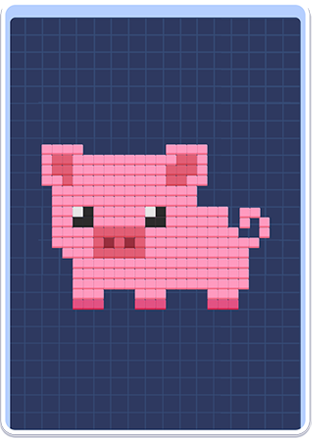
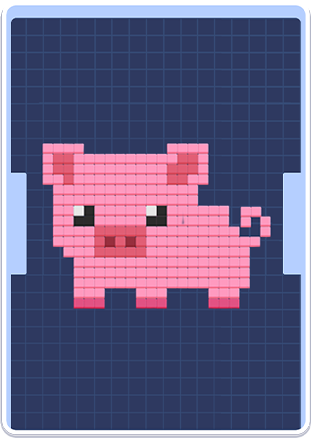
Make level harder and fix spite walls

Changed region(s): [[0.1158, 0.0, 1.0, 1.0], [0.0, 0.0, 0.0868, 1.0]]

diff --git a/assets/Code/Gameplay/Levels.ts b/assets/Code/Gameplay/Levels.ts
@@ -32,6 +32,16 @@ const PIG_LEVEL_ROWS = [
     '#.........................#',
     '#.........................#',
     '#.........................#',
+    '##.......................##',
+    '##.......................##',
+    '##.......................##',
+    '##.......................##',
+    '##.......................##',
+    '##.......................##',
+    '##.......................##',
+    '##.......................##',
+    '##.......................##',
+    '##.......................##',
     '#.........................#',
     '#.........................#',
     '#.........................#',
@@ -43,21 +53,41 @@ const PIG_LEVEL_ROWS = [
     '#.........................#',
     '#.........................#',
     '#.........................#',
-    '#.........................#',
-    '#.........................#',
-    '#.........................#',
-    '#.........................#',
-    '#.........................#',
-    '#.........................#',
-    '#.........................#',
-    '#.........................#',
-    '#.........................#',
-    '#.....#.............#.....#',
-    '#######......p......#######',
+    '#............p............#',
     '###########################',
 ];
 
-const NARROW_LEVEL_ROWS = [
+const BANANA_LEVEL_ROWS = [
+    '###################',
+    '#.##...........##.#',
+    '#.###.........###.#',
+    '#.................#',
+    '#.................#',
+    '#.................#',
+    '#.................#',
+    '#.................#',
+    '#.................#',
+    '#.................#',
+    '#.................#',
+    '#.................#',
+    '#.................#',
+    '#.................#',
+    '#.................#',
+    '#.................#',
+    '#.................#',
+    '#.................#',
+    '#.................#',
+    '#.................#',
+    '#.................#',
+    '##...............##',
+    '##...............##',
+    '##...............##',
+    '#........p........#',
+    '###################',
+];
+
+
+const SMILE_LEVEL_ROWS = [
     '###################',
     '#.................#',
     '#.................#',
@@ -87,35 +117,38 @@ const NARROW_LEVEL_ROWS = [
 ];
 
 const PARROT_LEVEL_ROWS = [
-    '#####################',
-    '#...................#',
-    '#...................#',
-    '#...................#',
-    '#...................#',
-    '#...................#',
-    '#...................#',
-    '#...................#',
-    '#...................#',
-    '#...................#',
-    '#...................#',
-    '#...................#',
-    '#...................#',
-    '#...................#',
-    '#...................#',
-    '#...................#',
-    '#...................#',
-    '#...................#',
-    '#...................#',
-    '#...................#',
-    '#...................#',
-    '#...................#',
-    '#...................#',
-    '#...................#',
-    '#...................#',
-    '#...................#',
-    '#....#.........#....#',
-    '######....p....######',
-    '#####################',
+    '#######################',
+    '#.....................#',
+    '#.....................#',
+    '#.....................#',
+    '###.................###',
+    '###.................###',
+    '#.....................#',
+    '#.....................#',
+    '#.....................#',
+    '#.....................#',
+    '#.....................#',
+    '#.....................#',
+    '#.....................#',
+    '#.....................#',
+    '#.....................#',
+    '#.....................#',
+    '#.....................#',
+    '#.....................#',
+    '#.....................#',
+    '#.....................#',
+    '#.....................#',
+    '#.....................#',
+    '#.....................#',
+    '#.....................#',
+    '#.....................#',
+    '#.....................#',
+    '###.................###',
+    '###.................###',
+    '#.....................#',
+    '#.....................#',
+    '#..........p..........#',
+    '#######################',
 ];
 
 function createLevel(rows: string[], enemyShape: number[][], enemyColors?: Record<number, string>, playerThemeIndex?: number, enemyX = 0, cameraZoomPortrait = 33 / 16, cameraZoomLandscape = 25 / 19, cameraOffsetZPortrait = 0, cameraOffsetZLandscape = -1.5): LevelConfig {
@@ -136,7 +169,7 @@ function createLevel(rows: string[], enemyShape: number[][], enemyColors?: Recor
 
 export const LEVELS: LevelConfig[] = [
     createLevel(PIG_LEVEL_ROWS, PIG_SHAPE, LEVEL_ENEMY_COLORS, undefined, 0, 2.4, 1.5, -0.5, -2),
-    createLevel(NARROW_LEVEL_ROWS, CUTE_FACE_SHAPE, { 1: LEVEL_ENEMY_COLORS[9] }, 1, 0, 1.6, 1.0),
+    createLevel(SMILE_LEVEL_ROWS, CUTE_FACE_SHAPE, { 1: LEVEL_ENEMY_COLORS[9] }, 1, 0, 1.6, 1.0),
     createLevel(PARROT_LEVEL_ROWS, PARROT_SHAPE, LEVEL_ENEMY_COLORS, 1, 1, 1.8, 1.1),
-    createLevel(NARROW_LEVEL_ROWS, BANANA_SHAPE, LEVEL_ENEMY_COLORS, 1, -1, 1.6, 1.0),
+    createLevel(BANANA_LEVEL_ROWS, BANANA_SHAPE, LEVEL_ENEMY_COLORS, 1, -1, 1.6, 1.0),
 ];

diff --git a/assets/Code/Infrastructure/GameManager.ts b/assets/Code/Infrastructure/GameManager.ts
@@ -33,6 +33,9 @@ class LevelViewConfig {
 
     @property
     public bottomPaddingPixels = 0;
+
+    @property
+    public topPaddingPixels = 0;
 }
 
 @ccclass('PlayerColorTheme')
@@ -312,16 +315,38 @@ export class GameManager extends Component {
             }
 
             const contentWidthPixels = spriteWidth - config.paddingPixels * 2;
-            if (contentWidthPixels <= 0) {
-                console.error('[GameManager] LevelView padding is larger than spriteFrame width');
+            const contentHeightPixels = spriteHeight - config.topPaddingPixels - config.bottomPaddingPixels;
+            if (contentWidthPixels <= 0 || contentHeightPixels <= 0) {
+                console.error('[GameManager] LevelView padding leaves no sprite content');
                 node.destroy();
                 continue;
             }
 
-            const scale = this.getLevelWidth(levels[i]) / (contentWidthPixels / 100);
-            const bottomOffset = (spriteHeight / 2 - config.bottomPaddingPixels) / 100 * scale;
-            node.setPosition(this.getLevelViewX(levels[i], center), center.y, this.getLevelBottom(levels[i], center) - bottomOffset + 0.5);
-            node.setScale(scale, scale, scale);
+            // Width and height describe different world dimensions. Stretching the
+            // sprite on each axis keeps both level borders aligned independently.
+            const level = levels[i];
+            const bounds = this.getFloorBounds(level);
+            const floorWidth = bounds.maxX - bounds.minX + 1;
+            // Match the distance between the outer floor-cell centres; the
+            // sprite content already includes the edge pixels and padding.
+            const floorHeight = bounds.maxZ - bounds.minZ + 1;
+
+            const pixelToUnit = 1 / 100;
+            const scaleX = floorWidth / (contentWidthPixels * pixelToUnit);
+            const scaleZ = floorHeight / (contentHeightPixels * pixelToUnit);
+            // Use one calibration for both axes. Anchor the padded content to
+            // the actual +Z floor edge so top padding cannot move the bottom.
+            const floorBottomZ = center.z + bounds.maxZ + 0.5;
+            const spriteBottomPixels = spriteHeight / 2 - config.bottomPaddingPixels;
+            const positionZ = floorBottomZ - spriteBottomPixels * pixelToUnit * scaleZ;
+            node.setPosition(
+                center.x + (bounds.minX + bounds.maxX) / 2,
+                center.y,
+                positionZ,
+            );
+            // View is rotated -90° on X in Level_Sprite_Walls: image X maps
+            // to parent X and image Y maps to parent Z.
+            node.setScale(scaleX, 1, scaleZ);
             this.spawnedLevelViews.push(node);
         }
     }
@@ -333,17 +358,27 @@ export class GameManager extends Component {
         this.spawnedLevelViews.length = 0;
     }
 
-    private getLevelWidth(level: LevelConfig): number {
-        return level.rows.reduce((width, row) => Math.max(width, row.replace(/#/g, '').length), 0);
-    }
-
-    private getLevelViewX(level: LevelConfig, center: Vec3): number {
+    private getFloorBounds(level: LevelConfig): { minX: number; maxX: number; minZ: number; maxZ: number } {
         const rowWidth = level.rows.reduce((width, row) => Math.max(width, row.length), 0);
-        return center.x - (rowWidth % 2 === 0 ? 0.5 : 0);
-    }
+        const offsetX = -Math.floor(rowWidth / 2);
+        // Built level center is centered on the playable rows, not the tunnel.
+        const offsetZ = -(level.rows.length - 1) / 2;
+        let minX = Number.POSITIVE_INFINITY;
+        let maxX = Number.NEGATIVE_INFINITY;
+        let minZ = Number.POSITIVE_INFINITY;
+        let maxZ = Number.NEGATIVE_INFINITY;
 
-    private getLevelBottom(level: LevelConfig, center: Vec3): number {
-        return center.z + (level.rows.length - 3) / 2;
+        for (let z = 0; z < level.rows.length; z++) {
+            for (let x = 0; x < level.rows[z].length; x++) {
+                if (level.rows[z][x] === '#') continue;
+                minX = Math.min(minX, offsetX + x);
+                maxX = Math.max(maxX, offsetX + x);
+                minZ = Math.min(minZ, offsetZ + z);
+                maxZ = Math.max(maxZ, offsetZ + z);
+            }
+        }
+
+        return { minX, maxX, minZ, maxZ };
     }
 
     private spawnEnemies(levels: LevelConfig[]): void {
